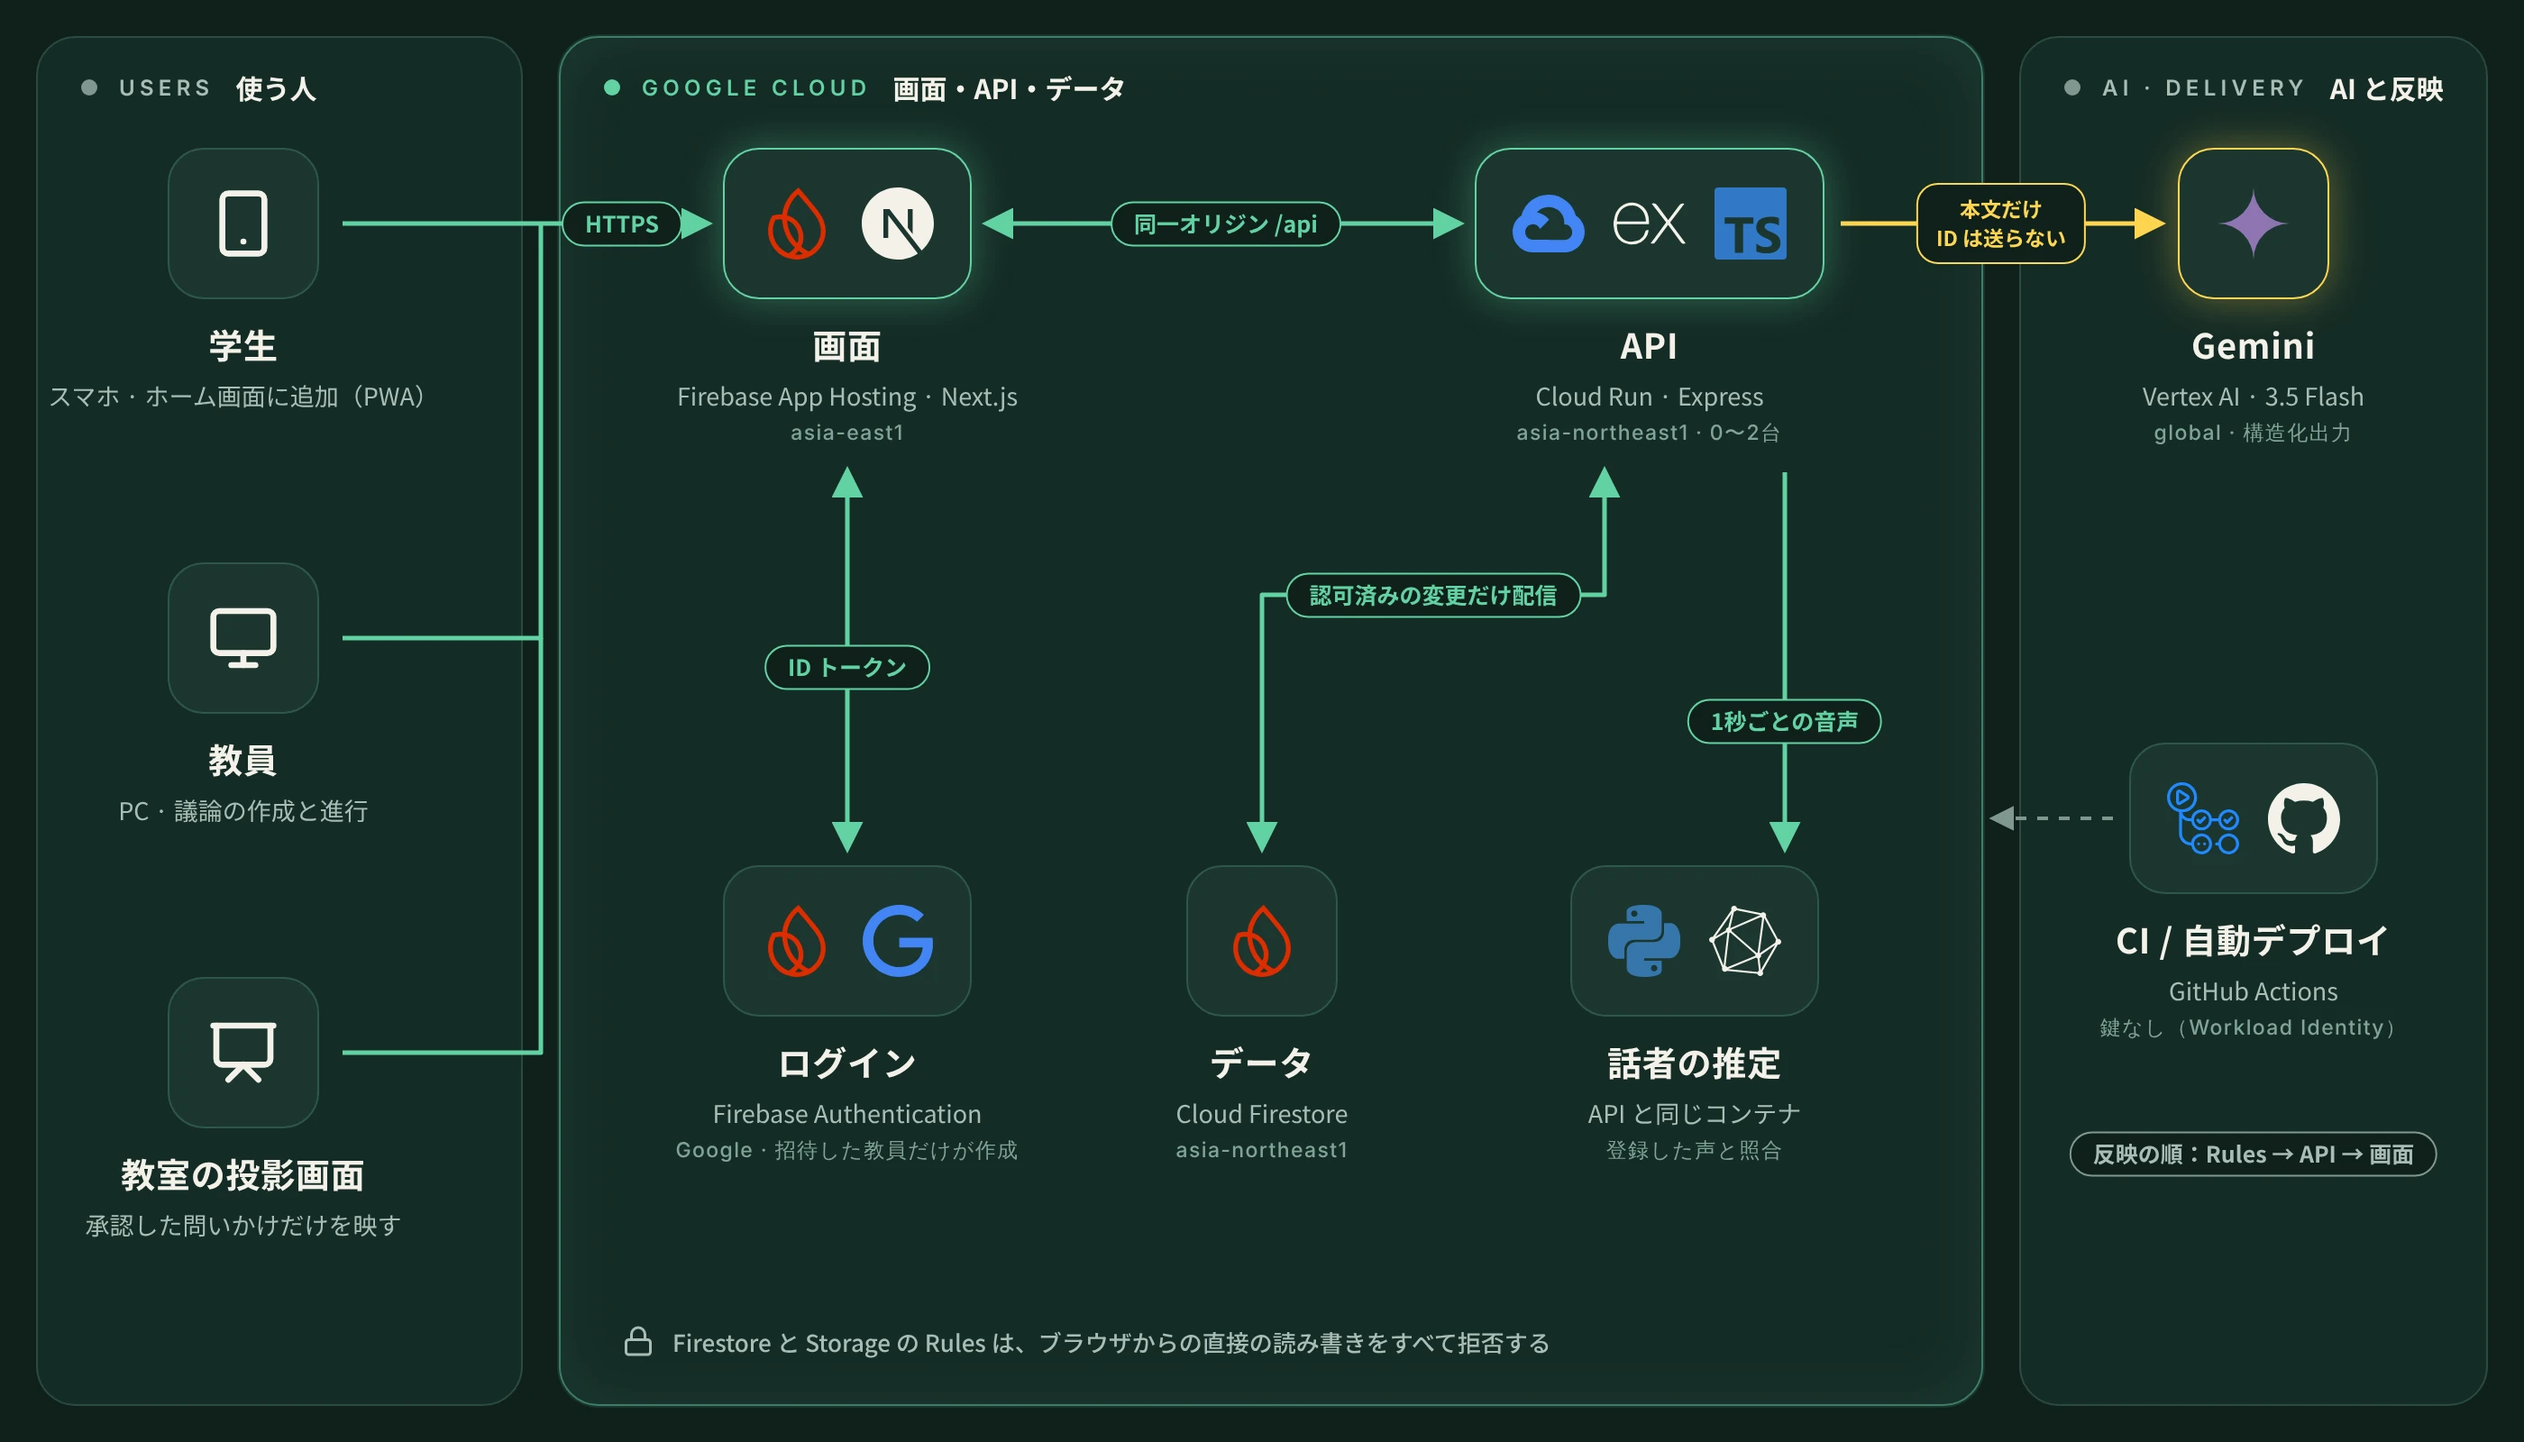
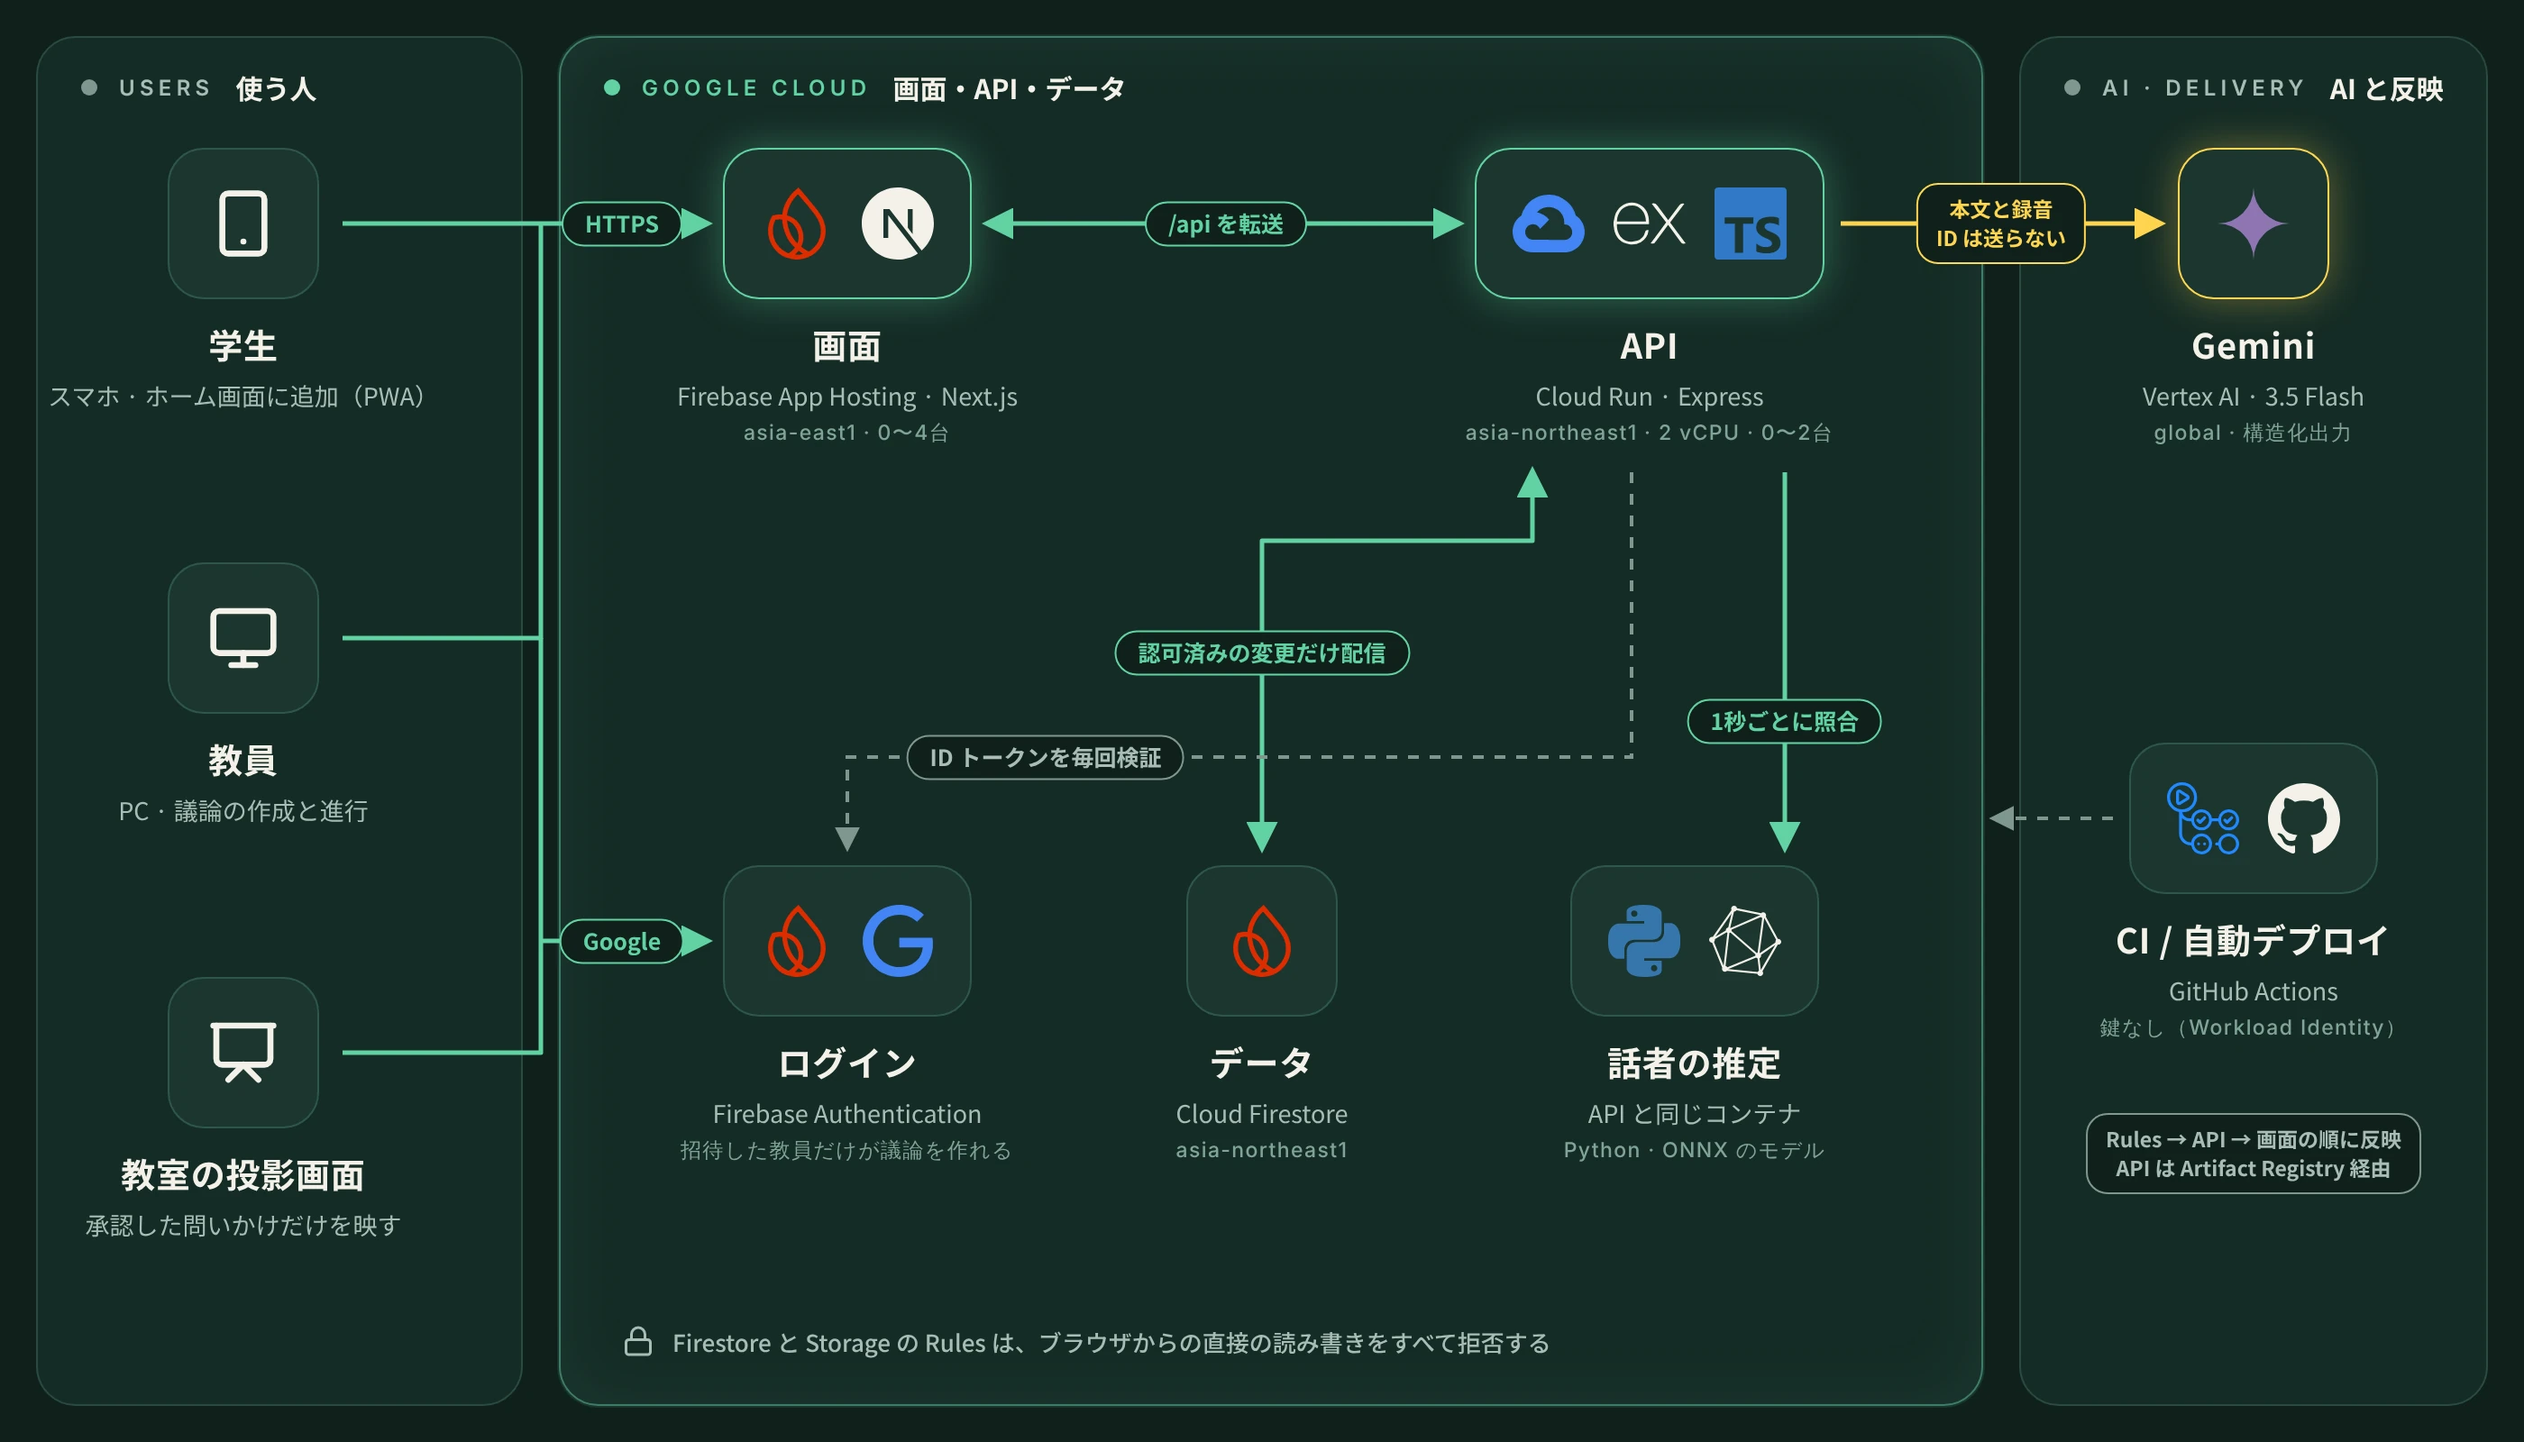
docs: 構成図と README のシステム構成を、デプロイ設定とコードに合わせる
- ログインは、ブラウザが Firebase Authentication で行い、API が ID トークンを検証する
  （画面のサーバーとログインを結んでいた線は誤り）
- Gemini には本文に加えて録音も送る
- API のイメージは Artifact Registry を経て Cloud Run に出す
- 画面は0〜4台、API は 2 vCPU・2 GiB・0〜2台。話者の推定は API と同じコンテナで動く
- 未検討論点の自動の分析は、教員の画面が60秒あけて実行する

Claude-Session: https://claude.ai/code/session_01XeXc3hvd7jLnACQZdELSTM

diff --git a/README.md b/README.md
@@ -34,30 +34,34 @@ Topos（トポス）は、授業のグループディスカッションのため
 
 ![Topos のシステム構成](docs/images/architecture.webp)
 
-画面・API・データを Google Cloud のマネージドサービスに分け、ブラウザは同じオリジンの `/api` だけを呼ぶ構成。使わない時間、API は0台まで縮む。
+画面・API・データを Google Cloud のマネージドサービスに分け、ブラウザは画面と同じオリジンの `/api` だけを呼ぶ構成。ログインはブラウザが Firebase Authentication で行い、API が毎回 ID トークンを検証する。画面と API は、使わない時間は0台まで縮む。
 
 ```
 議論
-  web/        Next.js（Firebase App Hosting）。/api を同じオリジンで受けて Cloud Run へ転送
-  → api/      Express + TypeScript（Cloud Run）。認可、議論の進行、分析の排他、指標の計算
+  ブラウザ    Firebase Authentication で Google にログインし、ID トークンを付けて /api を呼ぶ
+  → web/      Next.js（Firebase App Hosting）。/api を同じオリジンで受けて Cloud Run へ転送
+  → api/      Express + TypeScript（Cloud Run）。ID トークンとセッションの検証、認可、議論の進行、分析の排他、指標の計算
     → Gemini  gemini-3.5-flash（Vertex AI）。論点の抽出と照合、合意文のまとめ、録音の分析（構造化出力）
-    → Firestore  議論ごとのサブコレクション
+    → Firestore  議論（sessions/{議論}）ごとのサブコレクションと、ログイン中の端末
+    → 話者の推定  API と同じコンテナの Python（ONNX のモデル）。録音担当の端末が1秒ごとに送る音声を、登録した声と照合
 
 リアルタイム更新
   ブラウザ → /api/rooms/{議論}/live → Cloud Run が Firestore を購読し、認可済みの変更だけを配信
 
 デプロイ
   PR → CI（bash scripts/dev.sh check）→ main に squash merge
-  → 鍵なしの認証（Workload Identity 連携）→ Rules → API → 画面を同じコミットから順に反映
+  → 鍵なしの認証（Workload Identity 連携）
+  → Rules と索引 → API（イメージを Artifact Registry に置いて Cloud Run へ）→ 画面（App Hosting）
+    を同じコミットから順に反映
 ```
 
 | 部分 | 実行場所 | Gemini に送るもの |
 |---|---|---|
-| 画面 | Firebase App Hosting（asia-east1） | — |
-| API | Cloud Run（asia-northeast1）。0〜2台 | 事前意見・発言メモ・結論の一文の本文と、同意を得たグループの録音。持ち主の ID は送らず、録音は保存しない |
+| 画面 | Firebase App Hosting（asia-east1）。0〜4台 | — |
+| API | Cloud Run（asia-northeast1）。2 vCPU・2 GiB・0〜2台。話者の推定も同じコンテナで動く | 事前意見・発言メモ・結論の一文の本文と、同意を得たグループの録音。持ち主の ID は送らず、録音は保存しない |
 | Gemini | Vertex AI の global エンドポイント | — |
 | データ | Cloud Firestore（asia-northeast1） | — |
-| ログイン | Firebase Authentication（Google。議論を作れるのは招待した教員だけ） | — |
+| ログイン | Firebase Authentication（Google。議論を作れるのは、管理者が教員の権限を付けたアカウントだけ） | — |
 
 ### 設計の要点
 
@@ -65,7 +69,7 @@ Topos（トポス）は、授業のグループディスカッションのため
 - 教員とほかの学生に届くのは、API が持ち主を伏せて言い換えた論点だけにする。少数意見を出しやすくするため
 - AI の提案は、教員が承認してから学生に表示する。Gemini の出力は毎回少し変わり、誤りもあるため
 - 教室に映す投影画面は操作画面と分け、承認した問いかけだけを映す。決める前の提案を学生に見せないため
-- Gemini には判定に要る本文だけを送り、データと API は東京に置く。Gemini の接続先は global で、処理場所が日本に限られないため
+- Gemini には判定に要る本文と録音だけを送り、データと API は東京に置く。Gemini の接続先は global で、処理場所が日本に限られないため
 - ブラウザは常に同じオリジンの `/api` を呼ぶ。CORS を開かず、画面と API の URL の食い違いをなくすため
 - Rules・API・画面を同じコミットから順に反映し、戻すときも3つをそろえる。新しい画面と古い API が食い違わないため
 - GitHub から Google Cloud へは鍵を使わずに認証する。リポジトリは公開されていて、秘密情報を置けないため
@@ -88,7 +92,7 @@ Topos（トポス）は、授業のグループディスカッションのため
 Gemini が担うのは、文章の意味を比べる2つの判定と、録音の分析だけである。数える・割合を出す・誰に見せるかを決めるのは API が行う。
 
 ```
-未検討論点の検出（議論中。新しいメモが届くと自動で、または教員の操作で）
+未検討論点の検出（議論中。教員の画面が、新しいメモが届いていれば60秒ごとに自動で実行。手動でも実行できる）
   事前意見の本文 + 発言メモ
   → Gemini：論点を最大10個取り出し、それぞれ議論で取り上げられたかを判定
   → API で型・件数・長さを検証し、未検討の論点を「承認待ち」で保存
